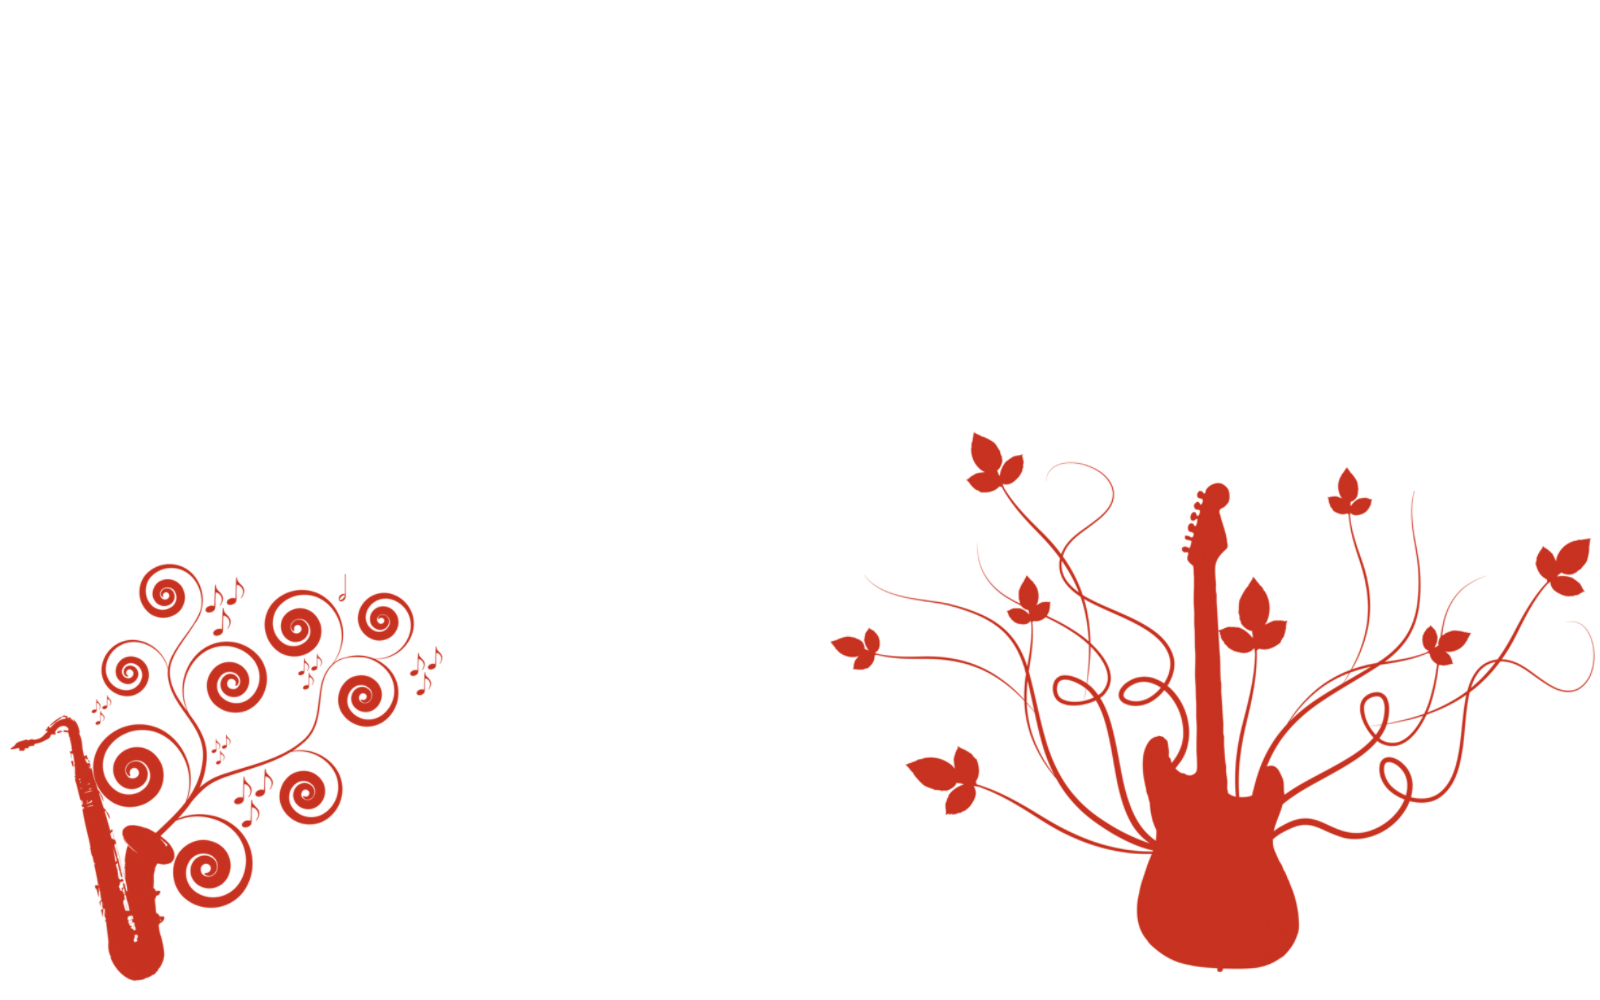
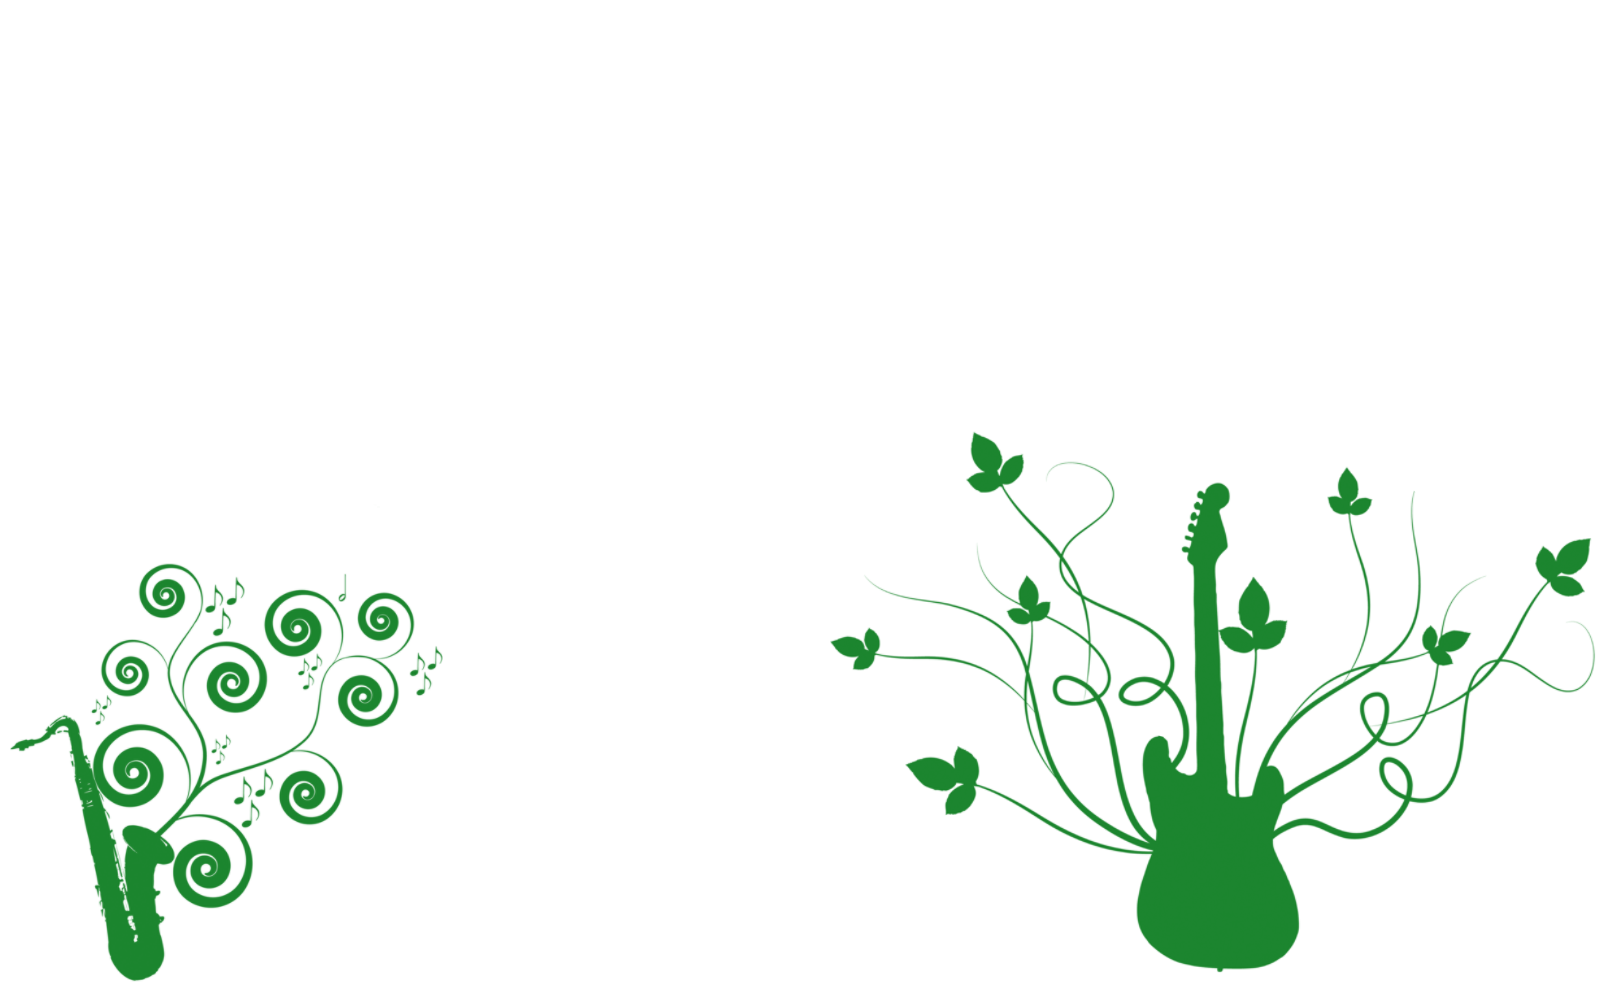
graphic tweak red -> green

diff --git a/css/style.css b/css/style.css
@@ -349,7 +349,8 @@ section {
 	display:block;
 	border-style:solid;
 	bottom:-0.4em;
-	border-color:#570900 transparent transparent transparent;
+	/*border-color:#570900 transparent transparent transparent;*/
+	border-color:#115022 transparent transparent transparent;
 }
 .single-page-title:before {
 	left:0px;
